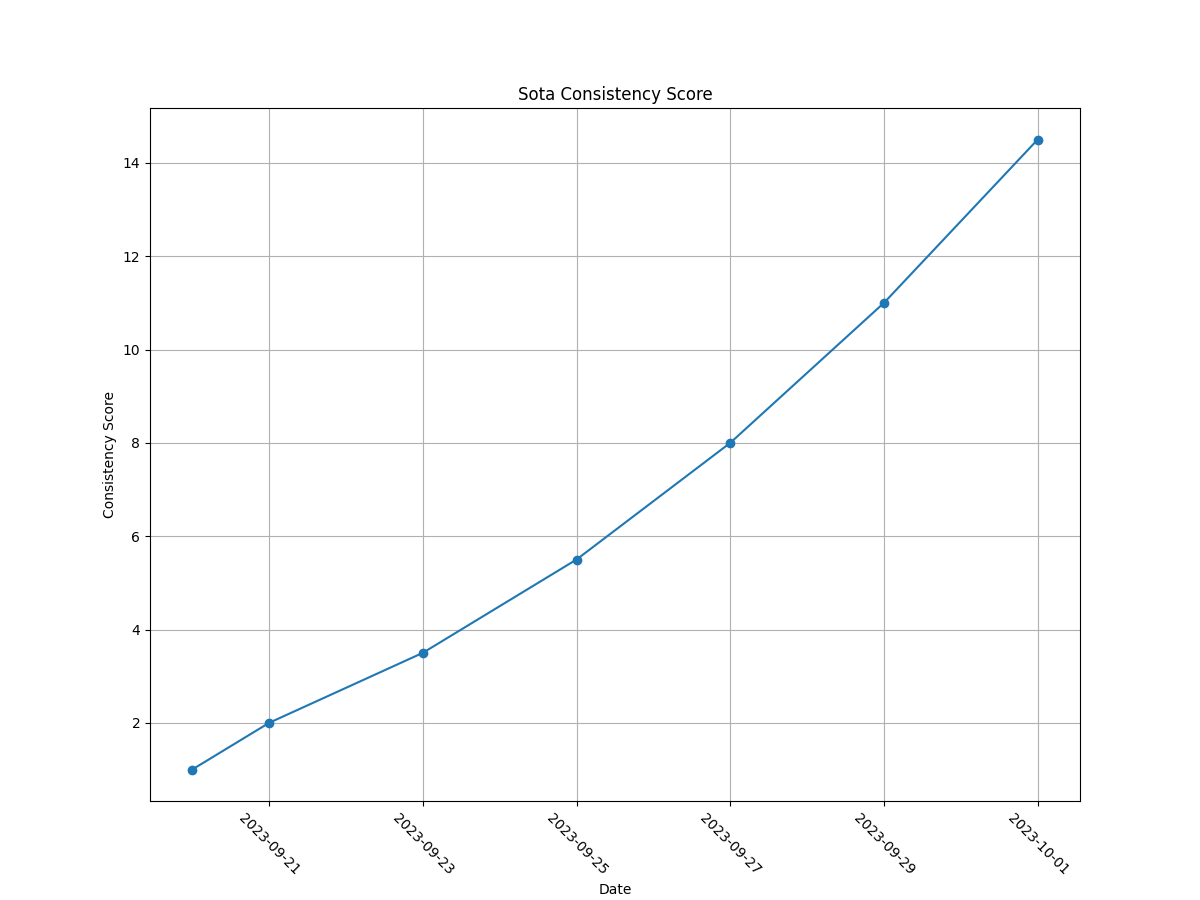
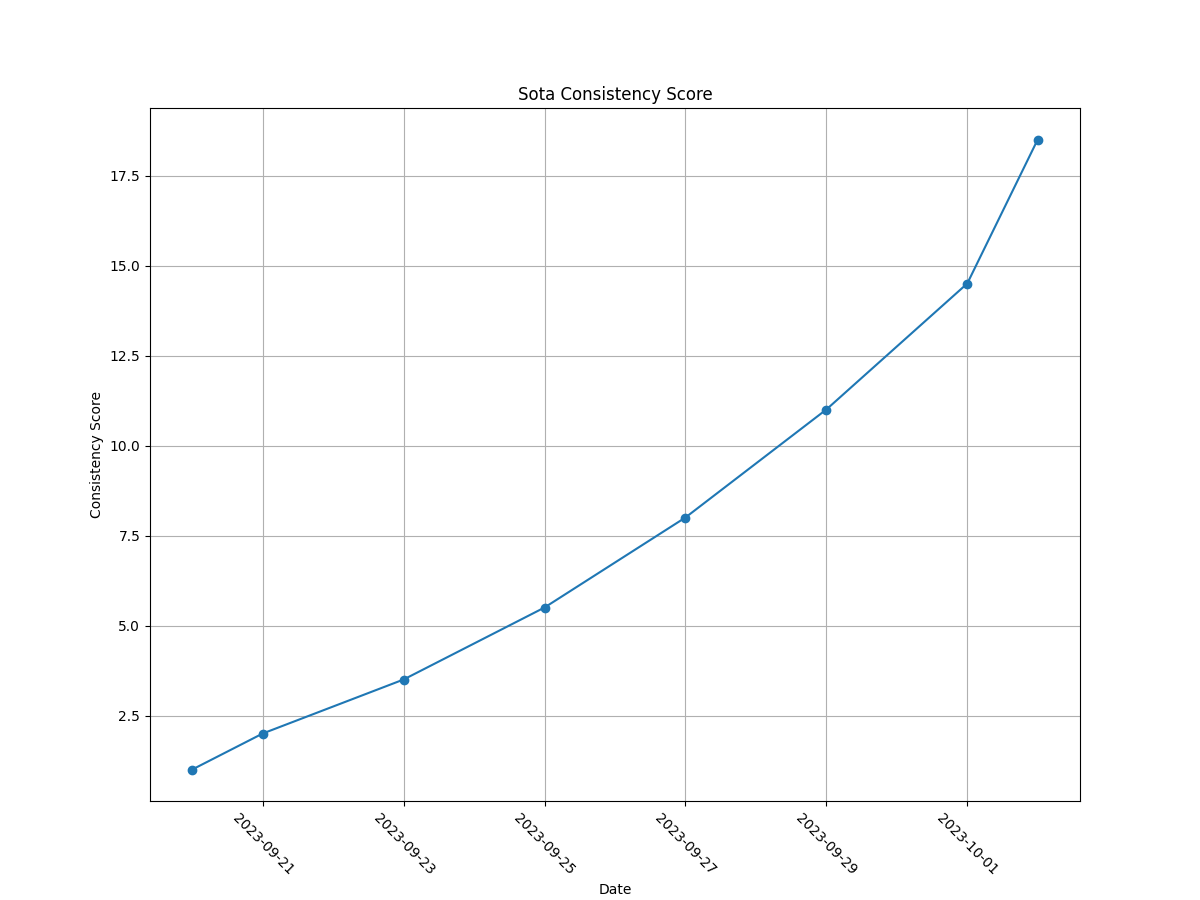
Update repo image

diff --git a/zena_data.py b/zena_data.py
@@ -8,7 +8,8 @@ ZENA_DATA = [
     {"date": "2023-09-27", "distance_miles": 3.74, "time_minutes": 65, "name": "Zena"},
     {"date": "2023-09-29", "distance_miles": 3.80, "time_minutes": 65, "name": "Zena"},
     {"date": "2023-09-30", "distance_miles": 3.94, "time_minutes": 65, "name": "Zena"},
-    {"date": "2023-10-02", "distance_miles": 3.44, "time_minutes": 65, "name": "Zena"}
+    {"date": "2023-10-02", "distance_miles": 3.44, "time_minutes": 65, "name": "Zena"},
+    {"date": "2023-10-04", "distance_miles": 3.22, "time_minutes": 65, "name": "Zena"}
 ]
 
 ZENA_CONSISTENCY_TUPLES = [(datum['time_minutes'], util.to_date(datum['date'])) for datum in ZENA_DATA]
